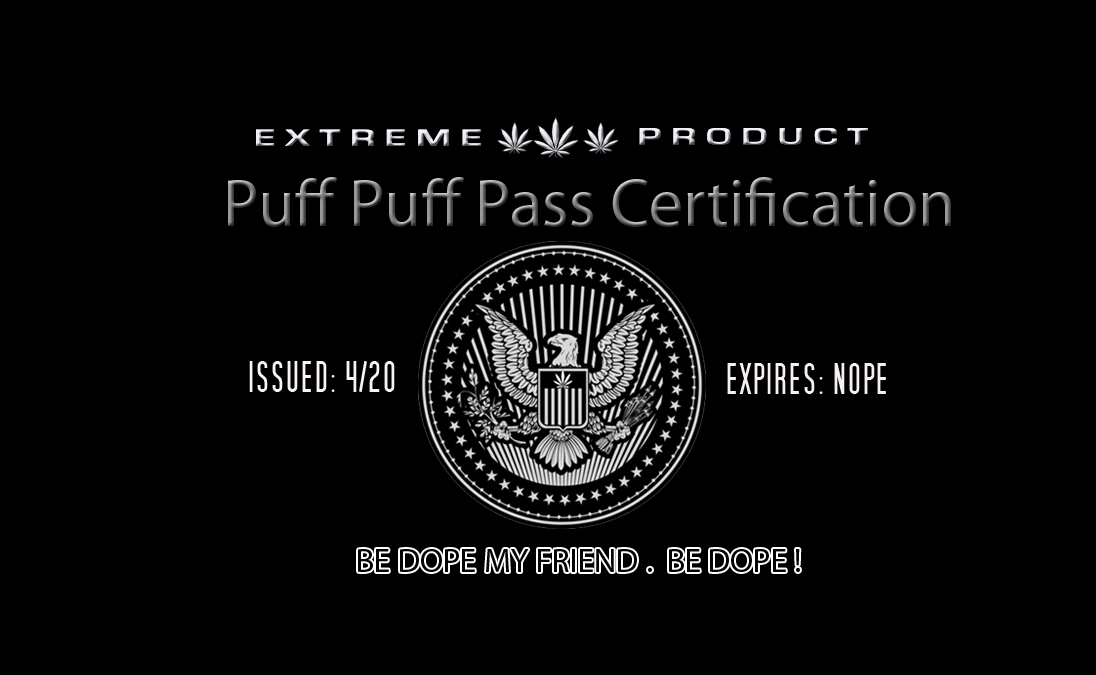
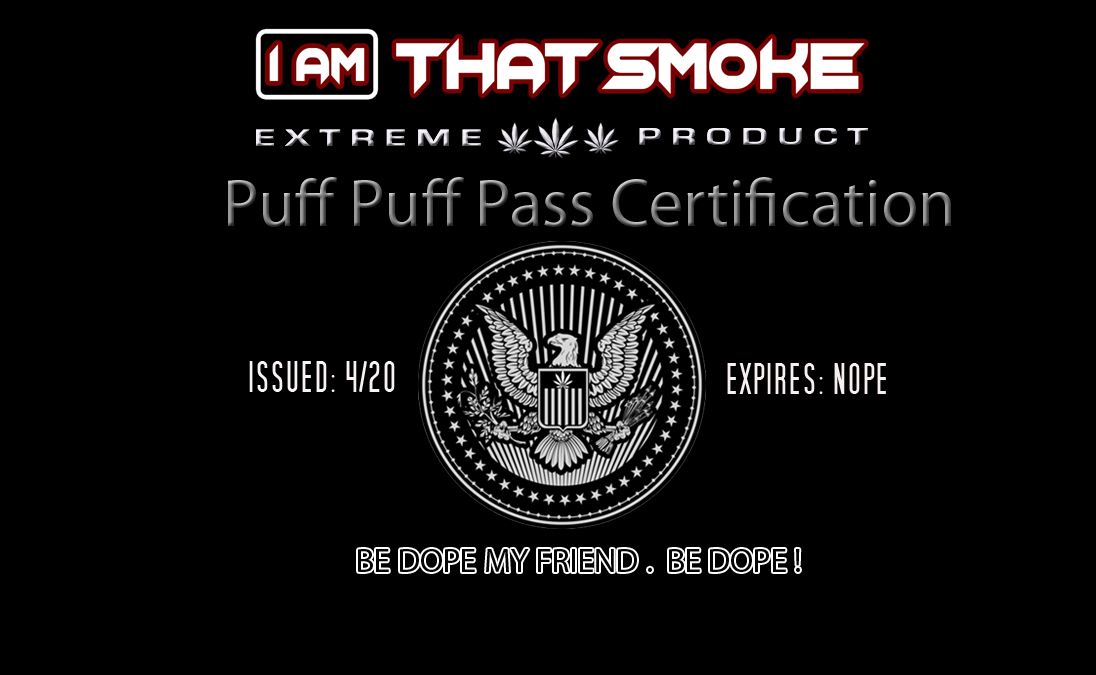
Designs

Changed region(s): [[0.2172, 0.0311, 0.8066, 0.1556]]

diff --git a/clients/harlan-blackshire/i-am-that-smoke/collections/dispensary/index.html b/clients/harlan-blackshire/i-am-that-smoke/collections/dispensary/index.html
@@ -18,8 +18,8 @@
 
             </center>
             <center><img src="https://danieldahdal.github.io/clients/harlan-blackshire/i-am-that-smoke/collections/monsters/artwork/IATS.png" width="60%" style="margin-top:35px;"></center>
-            <div class="design" style="float:left;margin-left:3%;margin-top:-90px;"><img src="https://danieldahdal.github.io/clients/harlan-blackshire/i-am-that-smoke/collections/dispensary/media/ir-mood- dmn sexy.jpeg"><p>DOD</p></div>
-            <div class="design" style="float:right;margin-right:3%;margin-top:-90px;"><img src="https://danieldahdal.github.io/clients/harlan-blackshire/i-am-that-smoke/collections/dispensary/media/dime bag horizontal.png"><p>DIME BAG HOR</p></div>
+            <div class="design" style="float:left;margin-left:3%;margin-top:-90px;"><img src="https://danieldahdal.github.io/clients/harlan-blackshire/i-am-that-smoke/collections/dispensary/media/ir-mood- dmn sexy.jpeg"><p>SEXY</p></div>
+            <div class="design" style="float:right;margin-right:3%;margin-top:-90px;"><img src="https://danieldahdal.github.io/clients/harlan-blackshire/i-am-that-smoke/collections/dispensary/media/WEB NEW PUFF BLACK FINAL.png"><p>PUFF PUFF PASS</p></div>
             <center><h1>DISPENSARY COLLECTION APPAREL</h1></center>
 
             <center>
